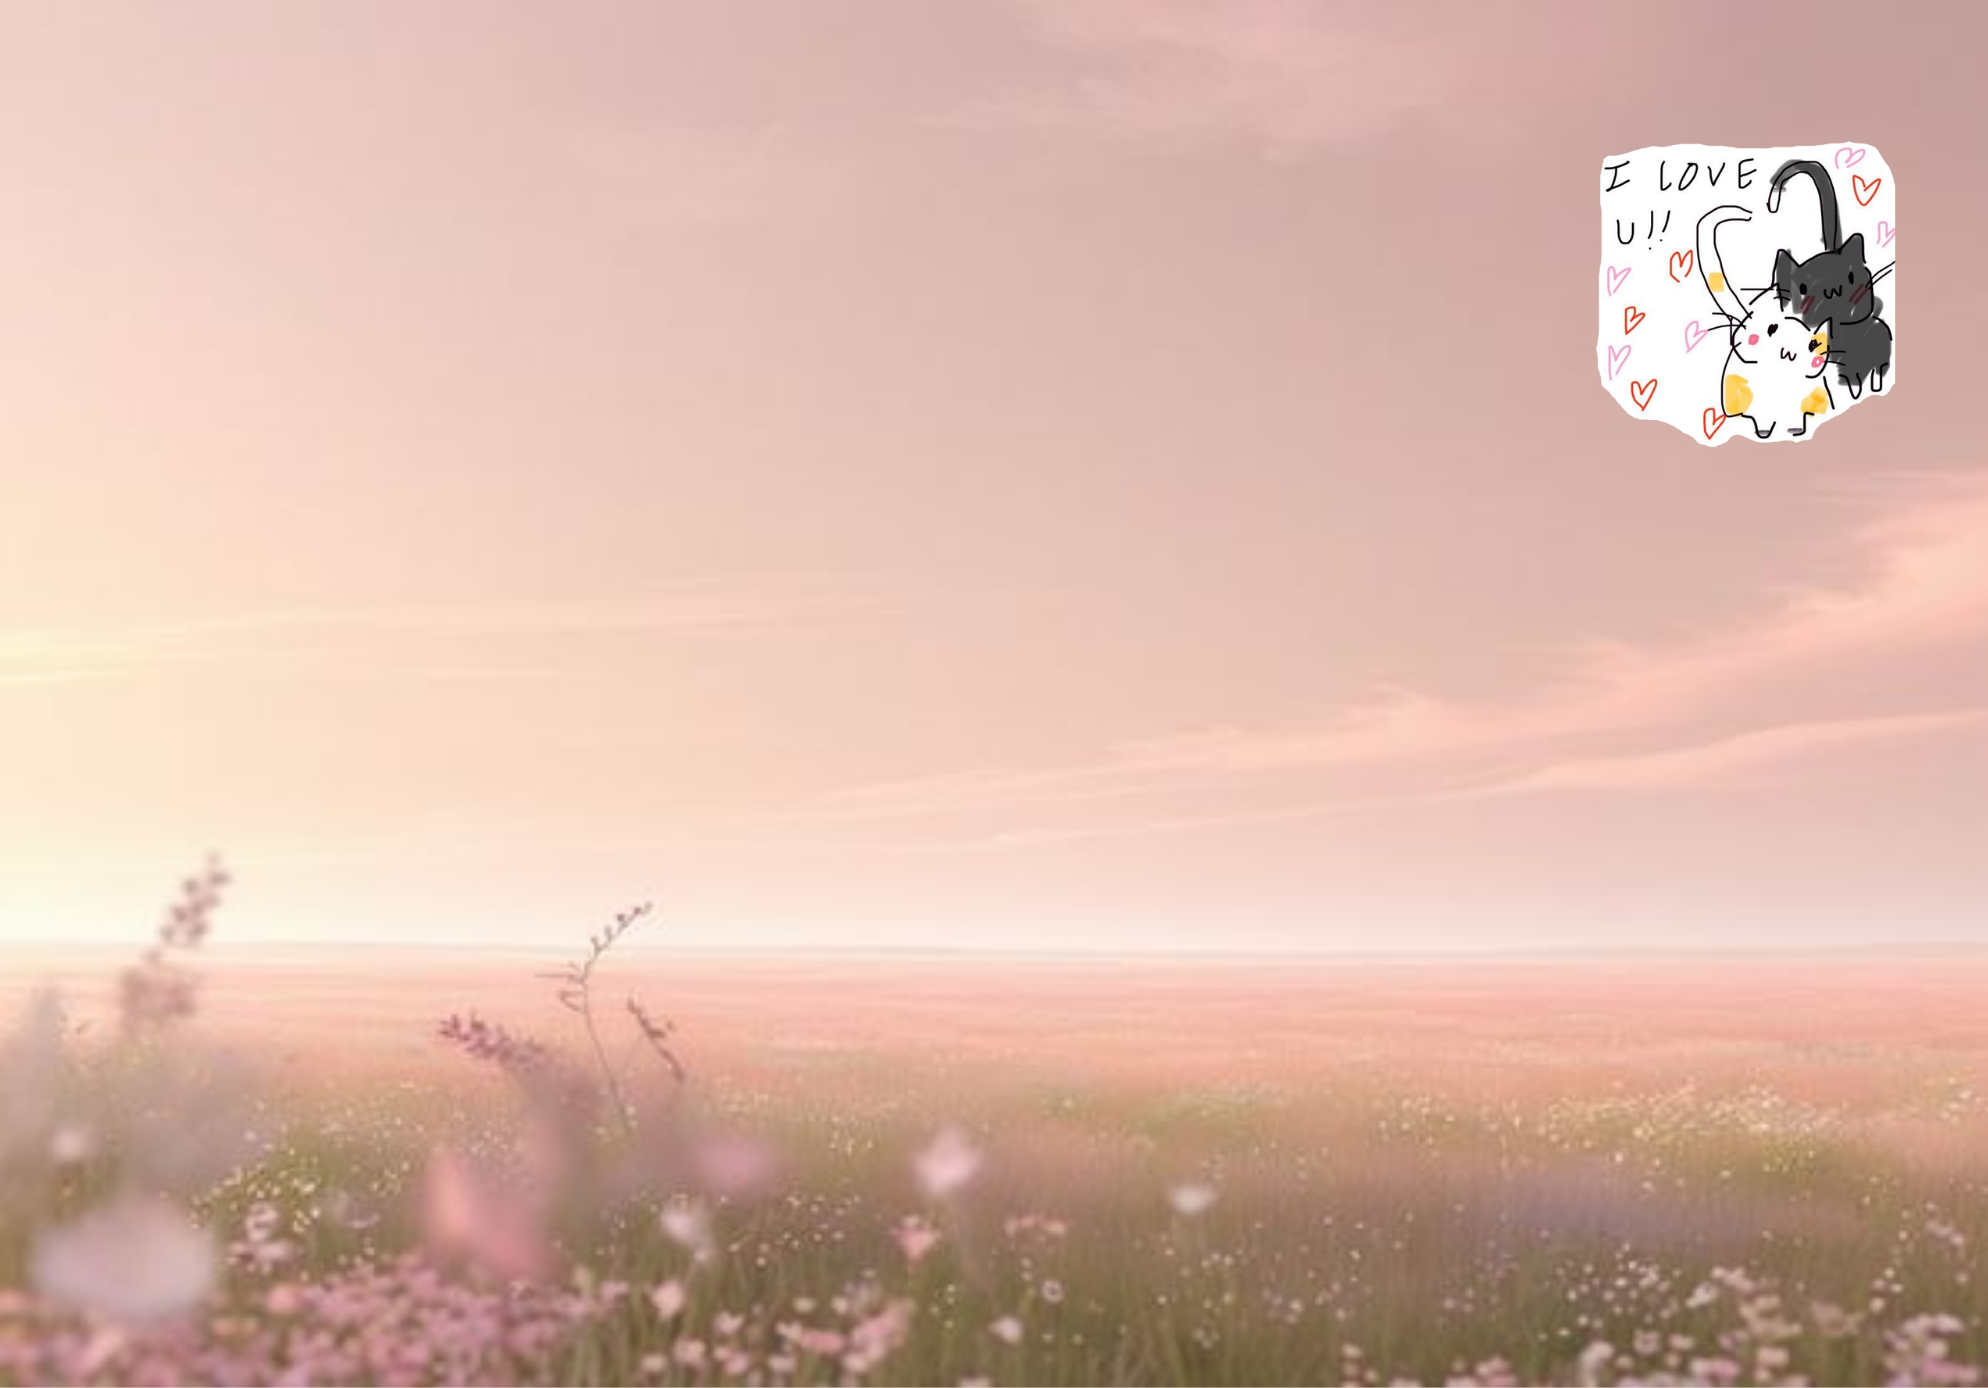
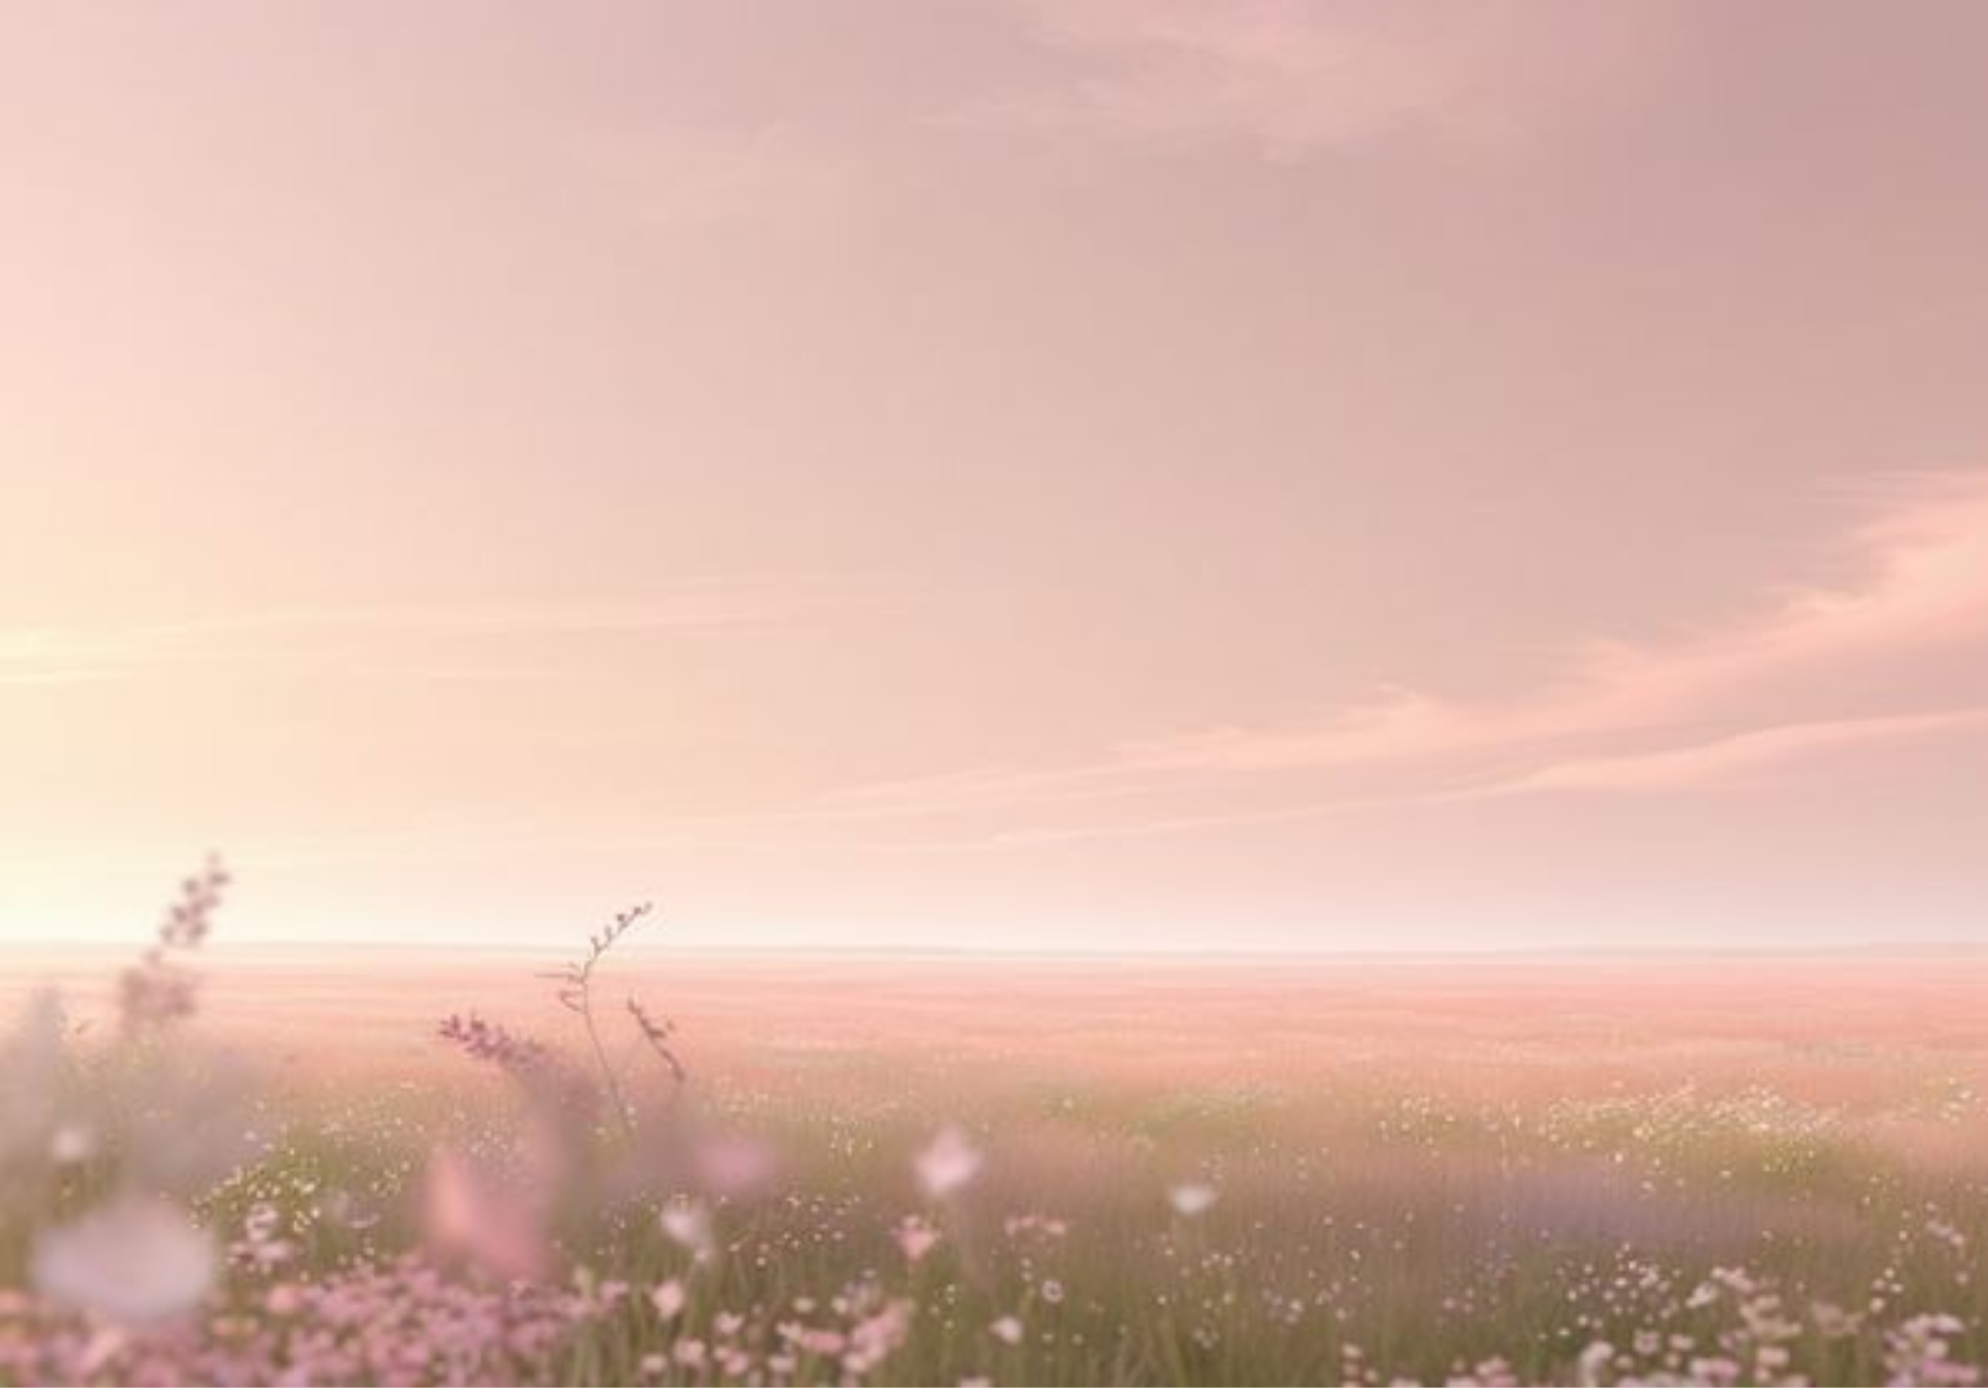
finished drawing + love + money letters

Changed region(s): [[0.7797, 0.0929, 0.9668, 0.3408]]

diff --git a/style.css b/style.css
@@ -221,6 +221,20 @@ html, body {
     color:rgb(113, 207, 95)
 }
 
+/*== 3rd link */
+
+#letter-text3 {
+    position: absolute;
+    color: rgb(143, 92, 117);
+    font-family:'Courier New', Courier, monospace;
+    font-size: clamp(8px, 1.2vw, 50px);
+    top: 50%;
+    left: 44%;
+}
+
+#letter-text3:hover {
+    color: rgb(95, 153, 207);
+}
 
 #return-button {
     position: fixed; /*like a button that doesn't move even if u scroll */
@@ -285,3 +299,21 @@ html, body {
     height: 40%;
     z-index: 0; 
 }
+
+.love-cat {
+    top: 5%;
+    right: 0%;
+    height: 40%;
+}
+.duck {
+    top: 10%;
+    right: 8%;
+    height: 34%
+}
+
+.laugh-cat {
+    bottom: 30%;
+    left: 10%;
+    height: 20%;
+}
+

diff --git a/letters/laugh/laugh.html b/letters/laugh/laugh.html
@@ -8,6 +8,12 @@
 
 <body>
     <img id="background" src="laugh-bg.png">
+        <img class="decor laugh-cat" 
+        src="laugh-cat.png">
+        <img class="decor bday-corner" 
+        src="laugh-corner.png">
+        <img class="decor duck" 
+        src="laugh-duck.png">
     <a id="return-button" href="../../index.html">← back</a>
     <div id="letter-container">
         <img id="letter" src="laugh-letter.png">

diff --git a/index.html b/index.html
@@ -46,7 +46,7 @@
                     <img class="envelope"
                     src="homepage/sick-letter.png" />
                 </a>
-                <a href="letters/money.html">
+                <a href="letters/money/money.html">
                     <img class="envelope"
                     src="homepage/money-letter.png" />
                 </a>
@@ -54,7 +54,7 @@
                     <img class="envelope"
                     src="homepage/love-letter.png" />
                 </a>
-                <a href="letters/drawing.html">
+                <a href="letters/drawing/drawing.html">
                     <img class="envelope"
                     src="homepage/drawing-letter.png" />
                 </a>